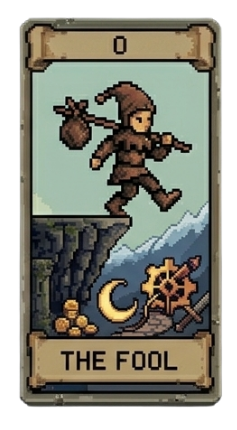
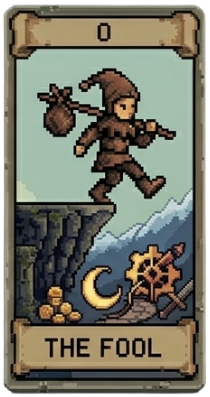
Fool card implemented

diff --git a/FoolsDescent/client/scenes/duel/game_cards.js b/FoolsDescent/client/scenes/duel/game_cards.js
@@ -206,23 +206,40 @@ Game.prototype.buildAllCards = function() {
             {
                 //15
                 name: "The Fool",
-                sprite: { src: "../../../assets/images/Epic Cards.png", rect: new Rect(0, 10, 213, 400) },
-                description: "Gain 2 lives, but a new moon card will be added to the Great Deck",
-                infoText: "Gained 2 lives! A Moon was added to the Great Deck.",
+                sprite: { src: "../../../assets/images/Epic Cards.png", rect: new Rect(0, 10, 204, 385) },
+                description: "Any card effect is possible, but which one will it be?",
+                infoText: "Surprise!",
                 action: () => {
-                    if (this.currentTurn !== "enemy"){
-                    this.playerLives += 2;
+                    let foolCards;
+
+                    if (this.currentTurn === "enemy") {
+                        foolCards = [
+                            this.allCards[1],
+                            this.allCards[3],
+                            this.allCards[4],
+                            this.allCards[7],
+                            this.allCards[8],
+                            this.allCards[9],
+                            this.allCards[11],
+                            this.allCards[12],
+                            this.allCards[13],
+                            this.allCards[14]
+                        ];
                     }
                     else {
-                        this.enemyLives +=2;
+                        foolCards = this.allCards.filter(
+                            card => card.name !== "The Fool"
+                        );
                     }
-            
-                    this.greatDeck.push("moon");
-            
-                    this.greatDeck.sort(() => Math.random() - 0.5);
-                    this.candleBurnPlayed = false;
-                    this.updatePlayerCandles();
-                    this.updateEnemyCandles();
+
+                    const randomCard =
+                        foolCards[Math.floor(Math.random() * foolCards.length)];
+                    
+                    this.lastPlayedAction = randomCard.action;
+                    this.foolRandomCardName = randomCard.name;
+                    this.foolRandomCardInfo = randomCard.infoText;
+
+                    randomCard.action();
                 }
             },
         ];

diff --git a/FoolsDescent/client/scenes/duel/dealer_enemy_turn.js b/FoolsDescent/client/scenes/duel/dealer_enemy_turn.js
@@ -1,4 +1,3 @@
-
 Game.prototype.dealer_enemy_turn = function() {
 
         if (this.gameOver) return;
@@ -25,8 +24,6 @@ Game.prototype.dealer_enemy_turn = function() {
         setTimeout(() => {
     
             let enemyCard;
-
-            // Uses the Fool as their first card
 
             // Uses The Star if they have one live left
             if (this.enemyLives === 1) {
@@ -109,6 +106,23 @@ Game.prototype.dealer_enemy_turn = function() {
                 // apply effect and remove card
                 setTimeout(() => {
                     enemyCard.action();
+
+                    if (enemyCard.name === "The Fool") {
+                        enemyCard.infoText =
+                            this.foolRandomCardName + ": " +
+                            this.foolRandomCardInfo;
+                        enemyCard.showInfo = true;
+                        setTimeout(() => {
+                            enemyCard.showInfo = false;
+                            enemyCard.object.size.x = 50;
+                            enemyCard.object.size.y = 90;
+                            this.activeEnemyCard = null;
+                            this.enemyCharacterCards.splice(chosenIndex, 1);
+                            this.repositionEnemyCards();
+                        }, 3000);
+                        return;
+                    }
+
                     if (enemyCard.name !== "The Magician") {
                         this.lastPlayedAction = enemyCard.action;
                         this.lastPlayedName = enemyCard.name;

diff --git a/FoolsDescent/client/scenes/duel/dealer_player_turn.js b/FoolsDescent/client/scenes/duel/dealer_player_turn.js
@@ -153,6 +153,20 @@ Game.prototype.checkCardClick = function(cardEntry, mouseX, mouseY) {
             obj.position.y = canvasHeight / 2;
             this.showEnemyCards = false;
             cardEntry.action();
+            if (cardEntry.name === "The Fool") {
+                cardEntry.infoText =
+                    this.foolRandomCardName + ": " +
+                    this.foolRandomCardInfo;
+                cardEntry.showInfo = true;
+                setTimeout(() => {
+                    cardEntry.visible = false;
+                    cardEntry.showInfo = false;
+                    cardEntry.infoText = "Surprise!";
+                    this.showEnemyCards = true;
+                    this.repositionCards();
+                }, 3000);
+                return;
+            }
             cardEntry.showInfo = cardEntry.name !== "The Magician" || this.magicianHadLastCard;
             if (cardEntry.name !== "The Magician") {
 

diff --git a/FoolsDescent/client/scenes/duel/duel_dealer.js b/FoolsDescent/client/scenes/duel/duel_dealer.js
@@ -20,7 +20,7 @@ class Game {
     }
     initObjects() {
 
-        this.enemyLives = 1;
+        this.enemyLives = 3;
         this.playerLives = 3;
         this.currentTurn = "player";
 
@@ -90,7 +90,7 @@ class Game {
         this.candleblow.volume = 0.4;
         this.cardSound = new Audio("../../../assets/audio/card.mpeg");
         this.cardSound.volume = 0.3;
-
+        
         this.startButton = {
         x: canvasWidth / 2 - 75,
         y: canvasHeight / 2 - 40,
